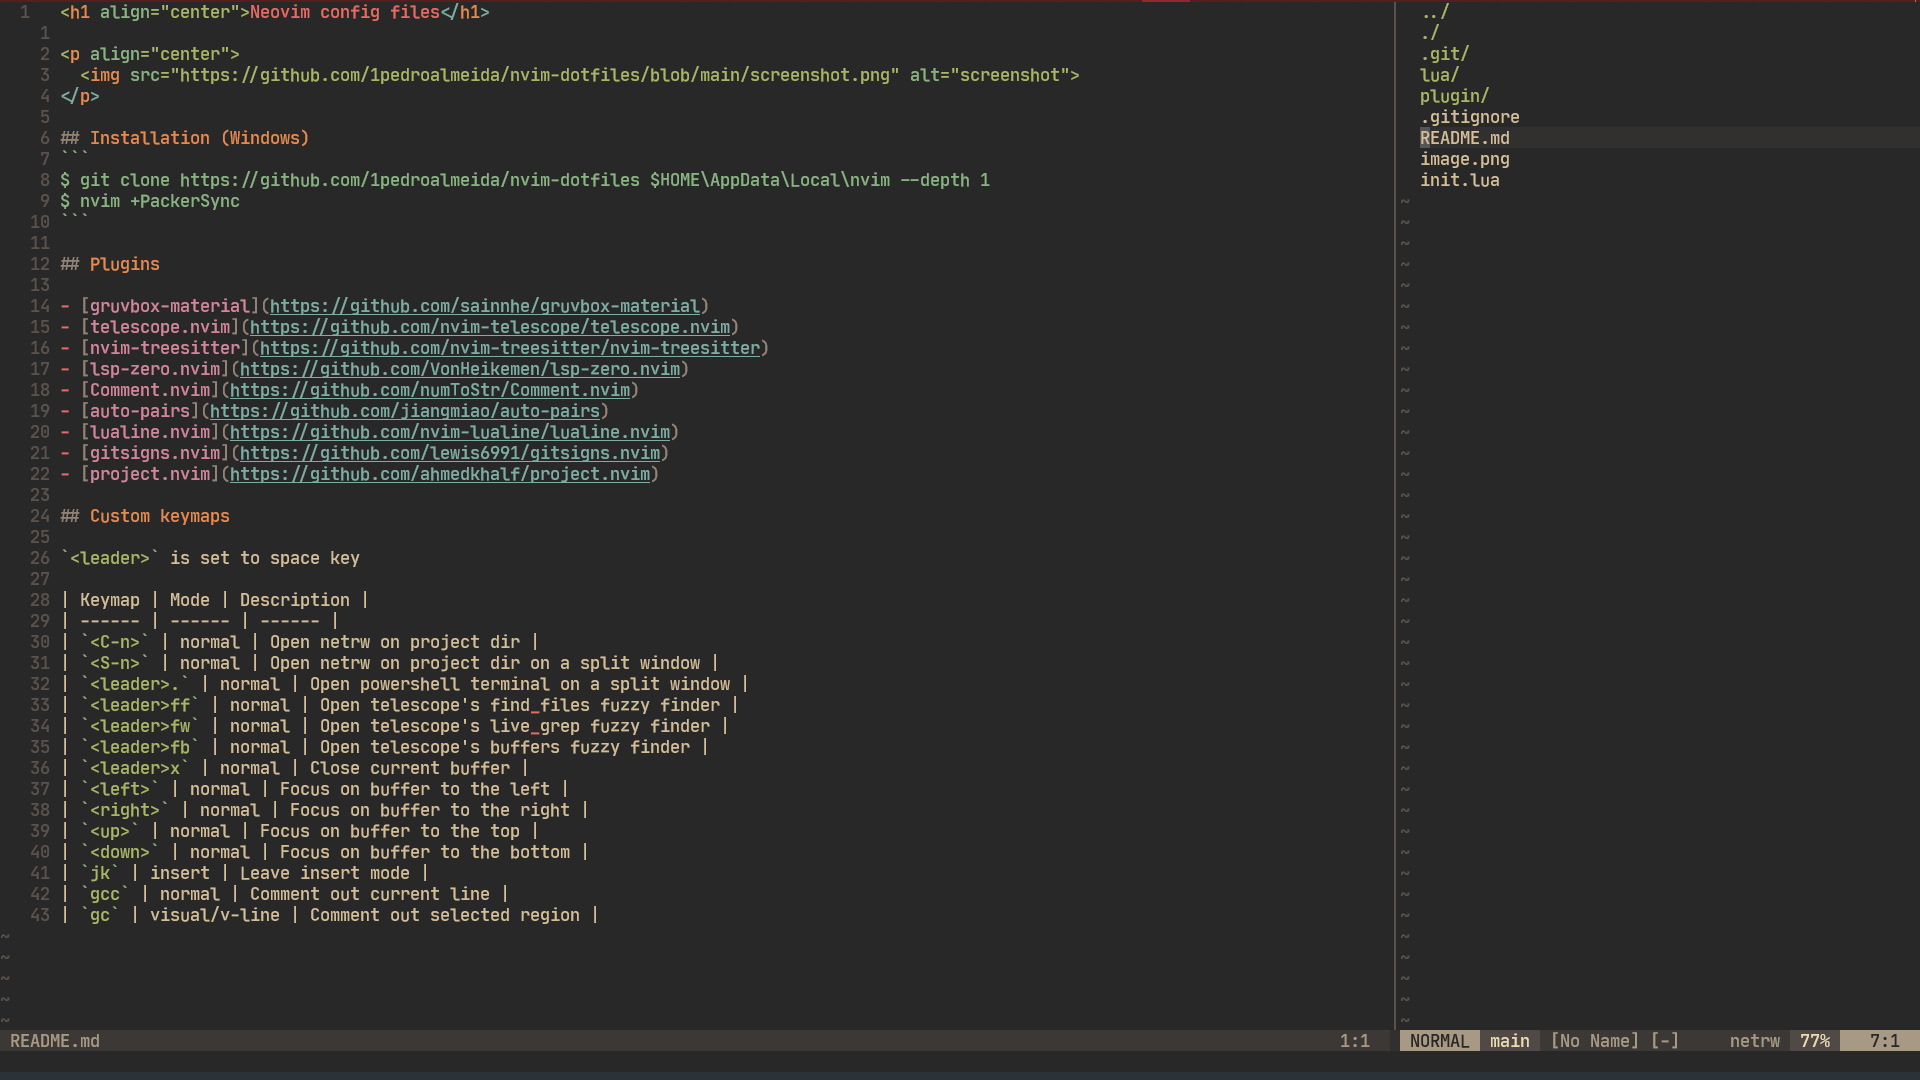
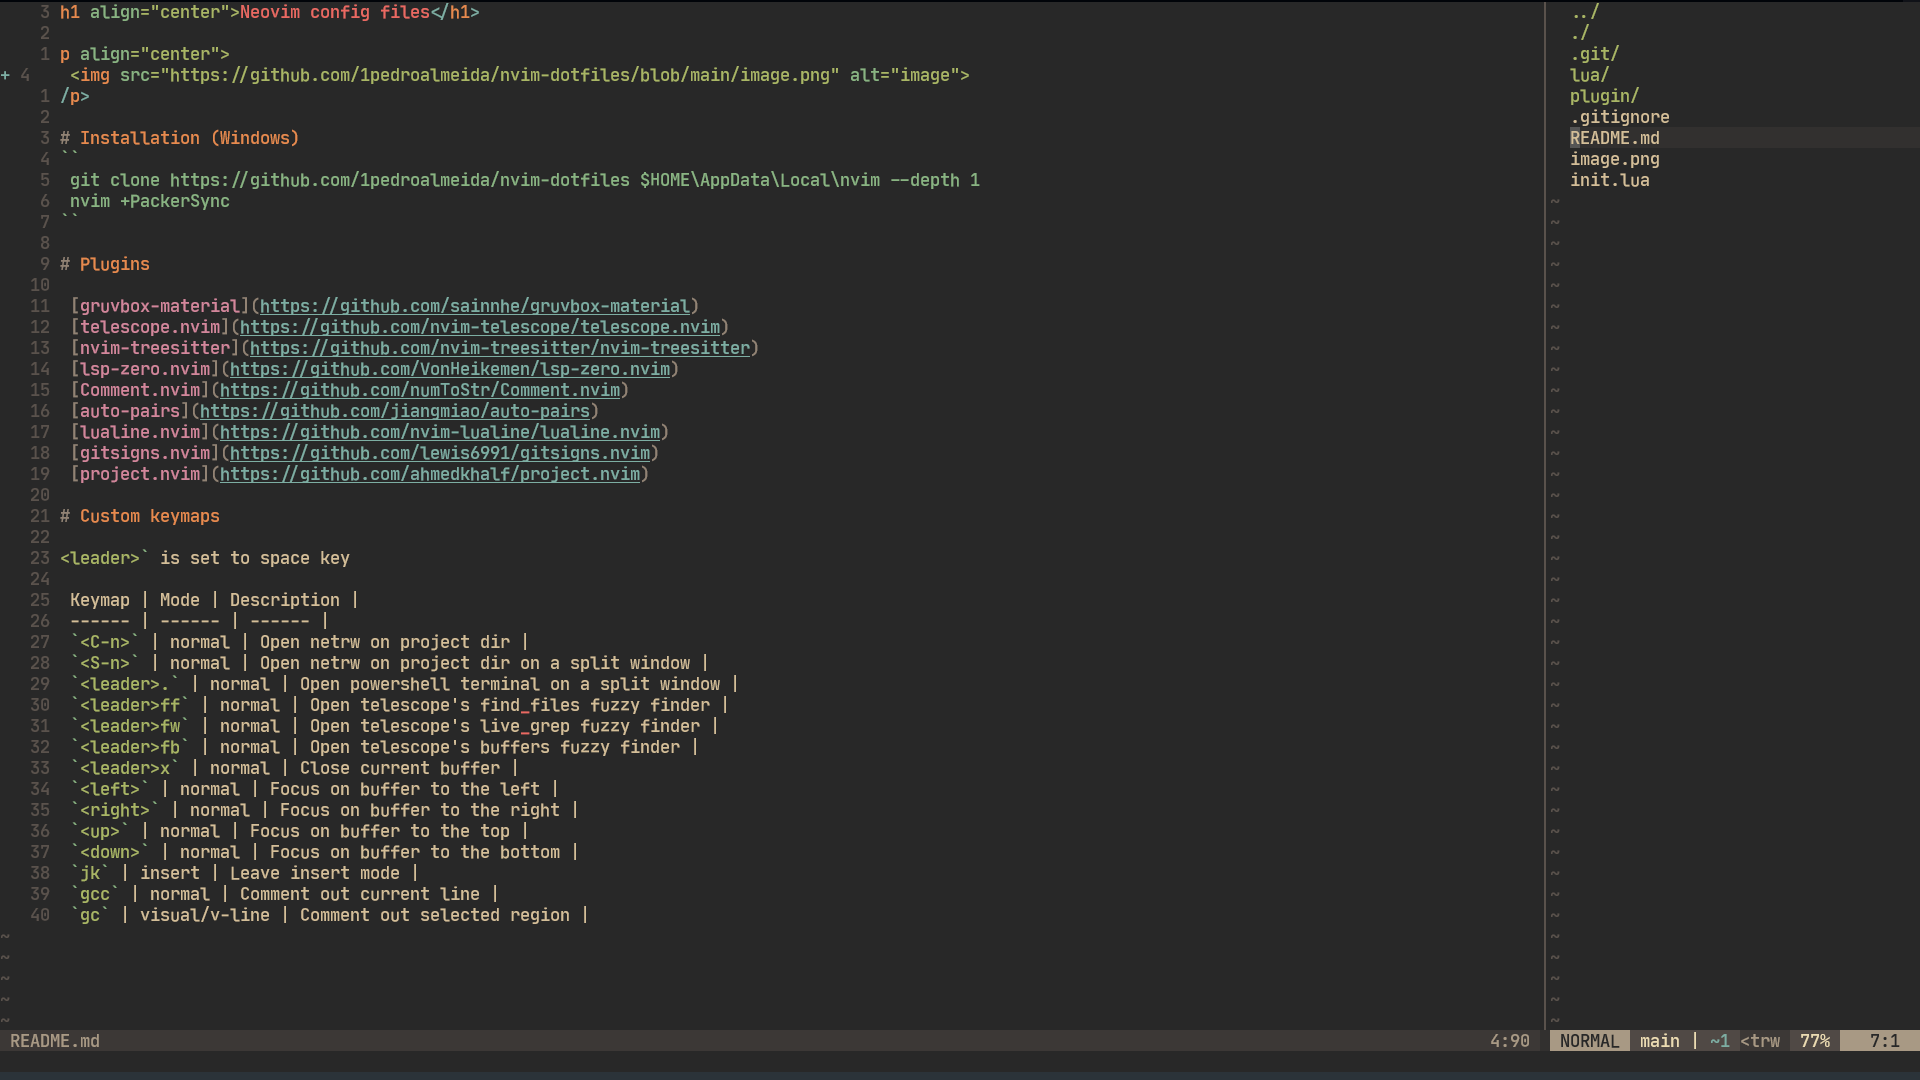
fix readme.md

diff --git a/README.md b/README.md
@@ -1,7 +1,7 @@
 <h1 align="center">Neovim config files</h1>
 
 <p align="center">
-  <img src="https://github.com/1pedroalmeida/nvim-dotfiles/blob/main/screenshot.png" alt="screenshot">
+  <img src="https://github.com/1pedroalmeida/nvim-dotfiles/blob/main/image.png" alt="image">
 </p>
 
 ## Installation (Windows)
